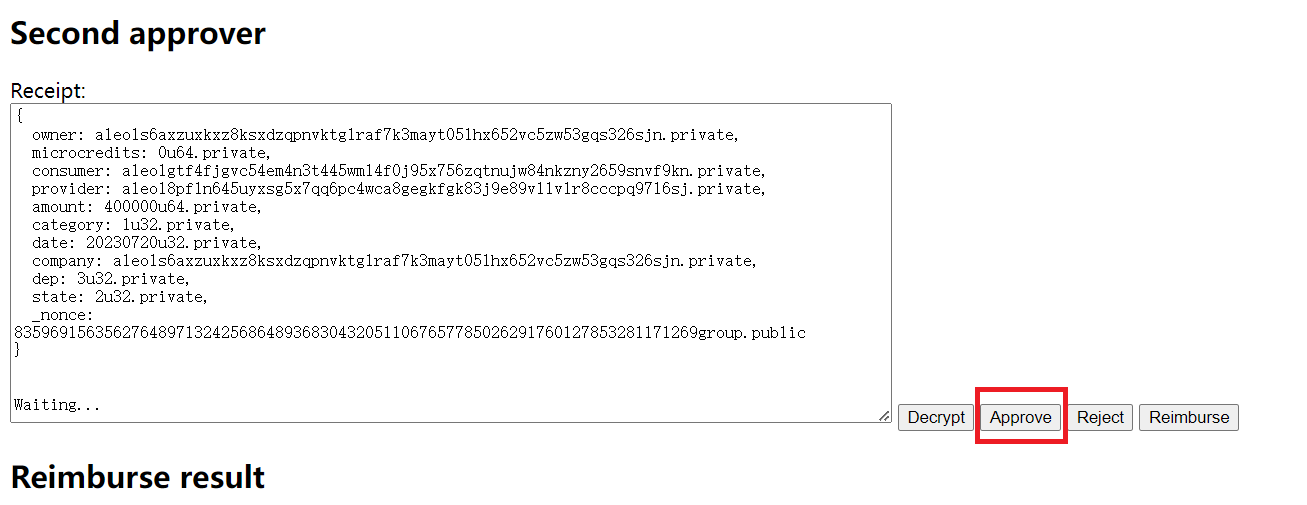
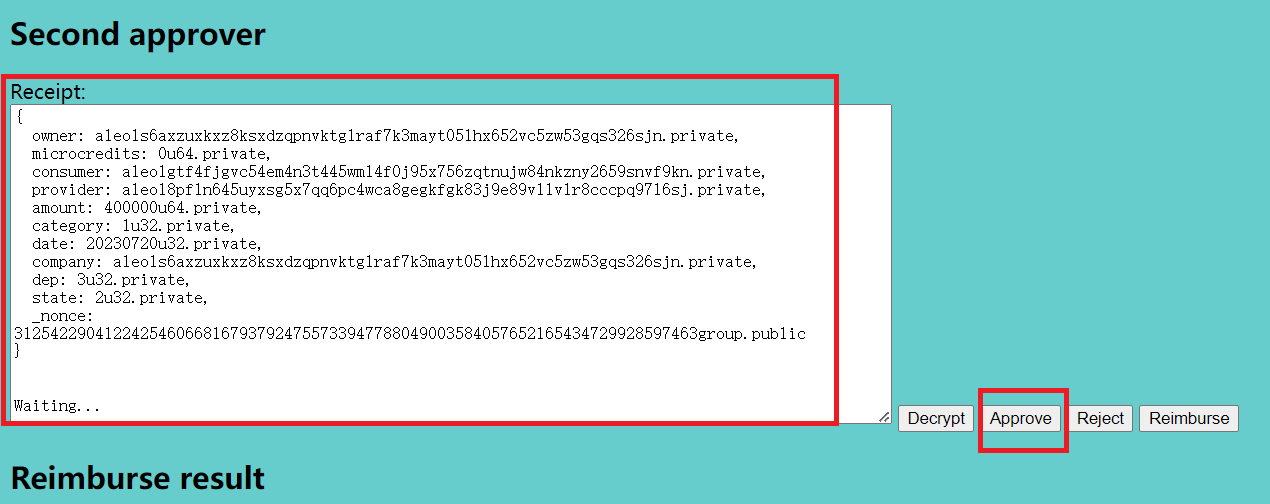
Update readme.

diff --git a/templates/restaurant.html b/templates/restaurant.html
@@ -3,10 +3,9 @@
 <head>
 	<title>Restaurant</title>
 </head>
-<body>
+<body style="background-color:rgb(102,204,204)">
 	<h1> Welcome to my restaurant </h1>
 
-        <form method = "POST" action = "{{url_for('pay')}}">
 		<label for = "date"> Date: <br> </label>
                 <input type = "text" name = "date" id = "date" style="left: 200px;">
 		<label for = "consumer"> <br>Consumer:<br> </label>
@@ -39,8 +38,8 @@
 		<label for="approver"><br><br> First approver: <br></label>
                 <input type= "text" name = "approver" id = "approver" style="width: 450px;">
 		<br><br>
-                <button type = "submit" style="width: 160px;"> Pay </button> 
-        </form>
+                <button onclick="pay()" style="width: 160px;"> Pay </button>
+                <label for="receipt" name = "receipt" id = "receipt"> <br> </label>
 
         <script>
             function sendCategorySelection() {
@@ -68,16 +67,43 @@
                 };
                 xhr.send("index=" + selectedIndex);
             }
+
+            function pay() {
+                var datetxt = document.getElementById("date").value;
+                var consumer = document.getElementById("consumer").value;
+                var amount = document.getElementById("amount").value;
+                var company = document.getElementById("company").value;
+                var approver = document.getElementById("approver").value;
+                var xhr = new XMLHttpRequest();
+                xhr.open("POST", "/pay", true);
+                xhr.setRequestHeader("Content-Type", "application/x-www-form-urlencoded");
+                xhr.onreadystatechange = function() {
+                    if (xhr.readyState === 4 && xhr.status === 200) {
+                        console.log(xhr.responseText);
+                        obj = JSON.parse(xhr.responseText);
+                        tip = obj['error'];
+                        var lab = document.getElementById("receipt");
+                        if (tip == '') {
+                            tip = "You can use the following receipt to reimburse now.";
+                            lab.innerHTML = '<br>' + tip + '<br>' + obj['receipt'];
+			} else {
+                            lab.innerHTML = '<br>' + tip;
+                        }
+                    }
+                };
+                xhr.send("date=" + encodeURIComponent(datetxt) + 
+                         "&consumer=" + encodeURIComponent(consumer) +
+                         "&amount=" + encodeURIComponent(amount) +
+                         "&company=" + encodeURIComponent(company) +
+                         "&approver=" + encodeURIComponent(approver));
+                var lab = document.getElementById("receipt");
+                lab.innerHTML = '<br><br>' +  'Waiting...';
+            }
+
         </script>
 
     {% if error %}
 	<h1> {{error}} </h1>
-    {% else %}
-    {% endif %}
-
-    {% if receipt %}
-        <h1> You can use the following receipt to reimburse now. </h1>
-        <p> {{receipt}}</p>
     {% else %}
     {% endif %}
 

diff --git a/templates/reimburse.html b/templates/reimburse.html
@@ -3,7 +3,7 @@
 <head>
 	<title>Reimburse system</title>
 </head>
-<body>
+<body style="background-color:rgb(102,204,204)">
 	<h1> Reimburse system </h1>
 	<h2> First approver  </h2>
                 <label> Receipt:<br> </label>

diff --git a/restaurant.py b/restaurant.py
@@ -1,6 +1,6 @@
 #!/usr/bin/python
 
-from flask import Flask, render_template, request, redirect, session, url_for
+from flask import Flask, render_template, request, jsonify, redirect, session, url_for
 import hashlib, subprocess
 import os, requests, json, time, logging
 
@@ -143,11 +143,11 @@ def pay():
       #  logging.error(error)
        # return render_template('restaurant.html', error = error)
 
-    date = request.form['date'].strip()
-    consumer = request.form['consumer'].strip()
-    amount = request.form['amount'].strip()
-    company = request.form['company'].strip()
-    approver1 = request.form['approver'].strip()
+    date = request.form.get('date').strip()
+    consumer = request.form.get('consumer').strip()
+    amount = request.form.get('amount').strip()
+    company = request.form.get('company').strip()
+    approver1 = request.form.get('approver').strip()
     provider = 'aleo18pfln645uyxsg5x7qq6pc4wca8gegkfgk83j9e89vllvlr8cccpq97l6sj'
 
     logging.info('date = %s, consumer = %s' % (date, consumer))
@@ -157,13 +157,14 @@ def pay():
     if selected_category == '':
         error = 'Please select category'
         logging.error(error)
-        return render_template('restaurant.html', error = error)
+        return jsonify({"receipt" : '', "error" : error})
+        #return render_template('restaurant.html', error = error)
     elif selected_department == '':
         error = 'Please select department'
         logging.error(error)
-        return render_template('restaurant.html', error = error)
+        return jsonify({"receipt" : '', "error" : error})
+        #return render_template('restaurant.html', error = error)
 
-    #is_busy = True
     cmd = exe_cmd_prefix + aleo_program + 'transfer_private_with_receipt '
     input_params = '%s %s %su64 ' % (token_list[-1], provider, amount)
     receipt_info = '\"{category: %su32, date: %su32, company: %s, dep: %su32, approver: %s}\"' % (selected_category, date, company, selected_department, approver1)
@@ -211,8 +212,8 @@ def pay():
                     logging.error(error)
 
                 logging.info('Receipt: %s' % receipt)
-                #is_busy = False
-                return render_template('restaurant.html', error = error, receipt = receipt)
+                return jsonify({"receipt" : receipt, "error" : error})
+                #return render_template('restaurant.html', error = error, receipt = receipt)
             else:
                 error = "No transaction found in the successful result."
         else:
@@ -224,8 +225,8 @@ def pay():
         error = "Subprocess Error: %s" % error_output
         logging.error(error)
 
-    #is_busy = False
-    return render_template('restaurant.html', error = error)
+    return jsonify({"receipt" : '', "error" : error})
+    #return render_template('restaurant.html', error = error)
 
 
 if __name__ == "__main__":
